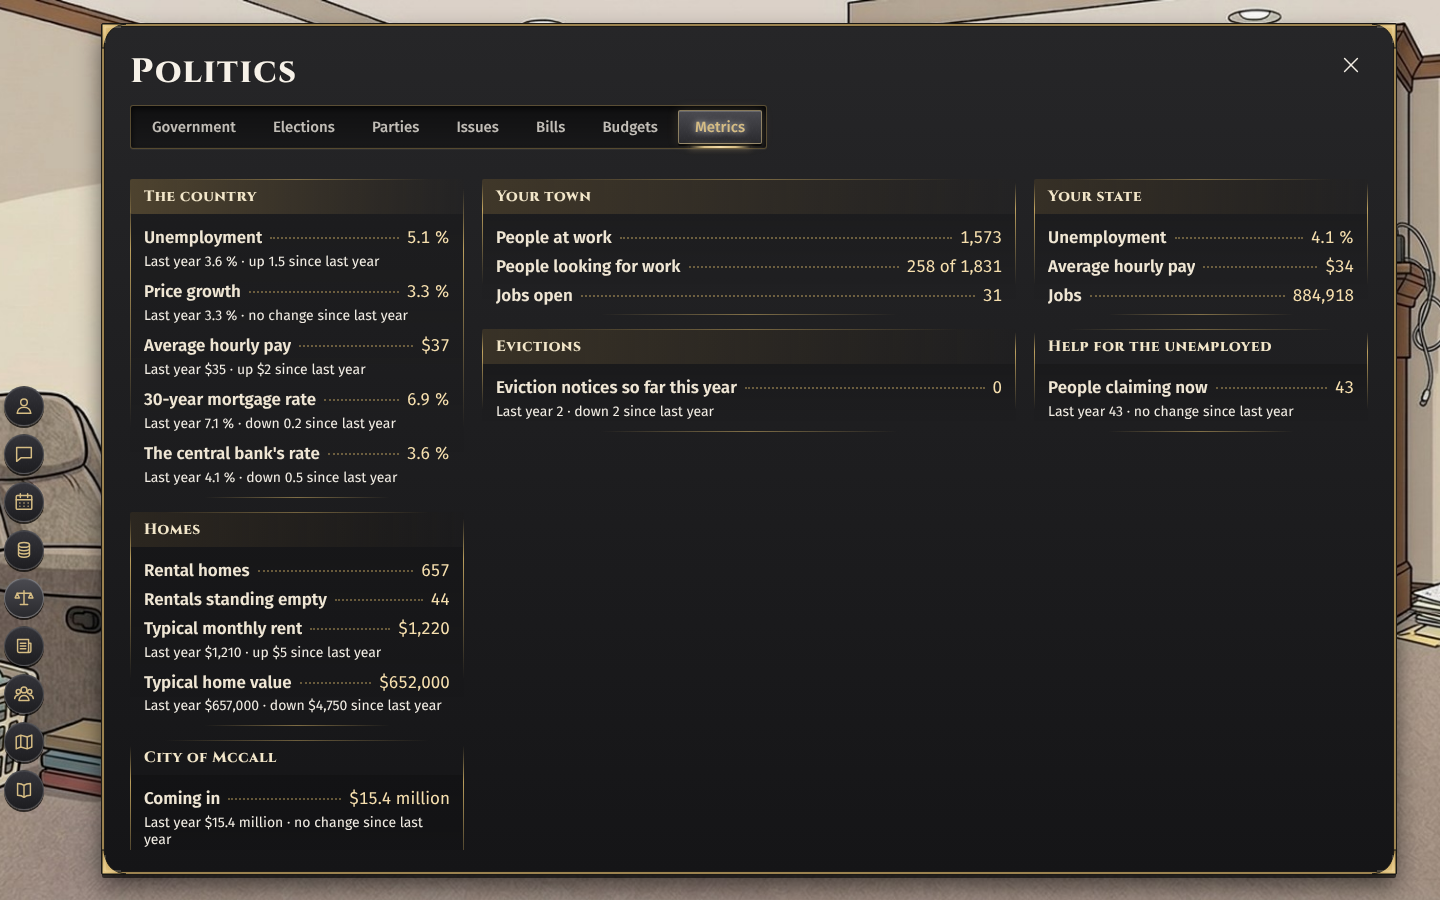
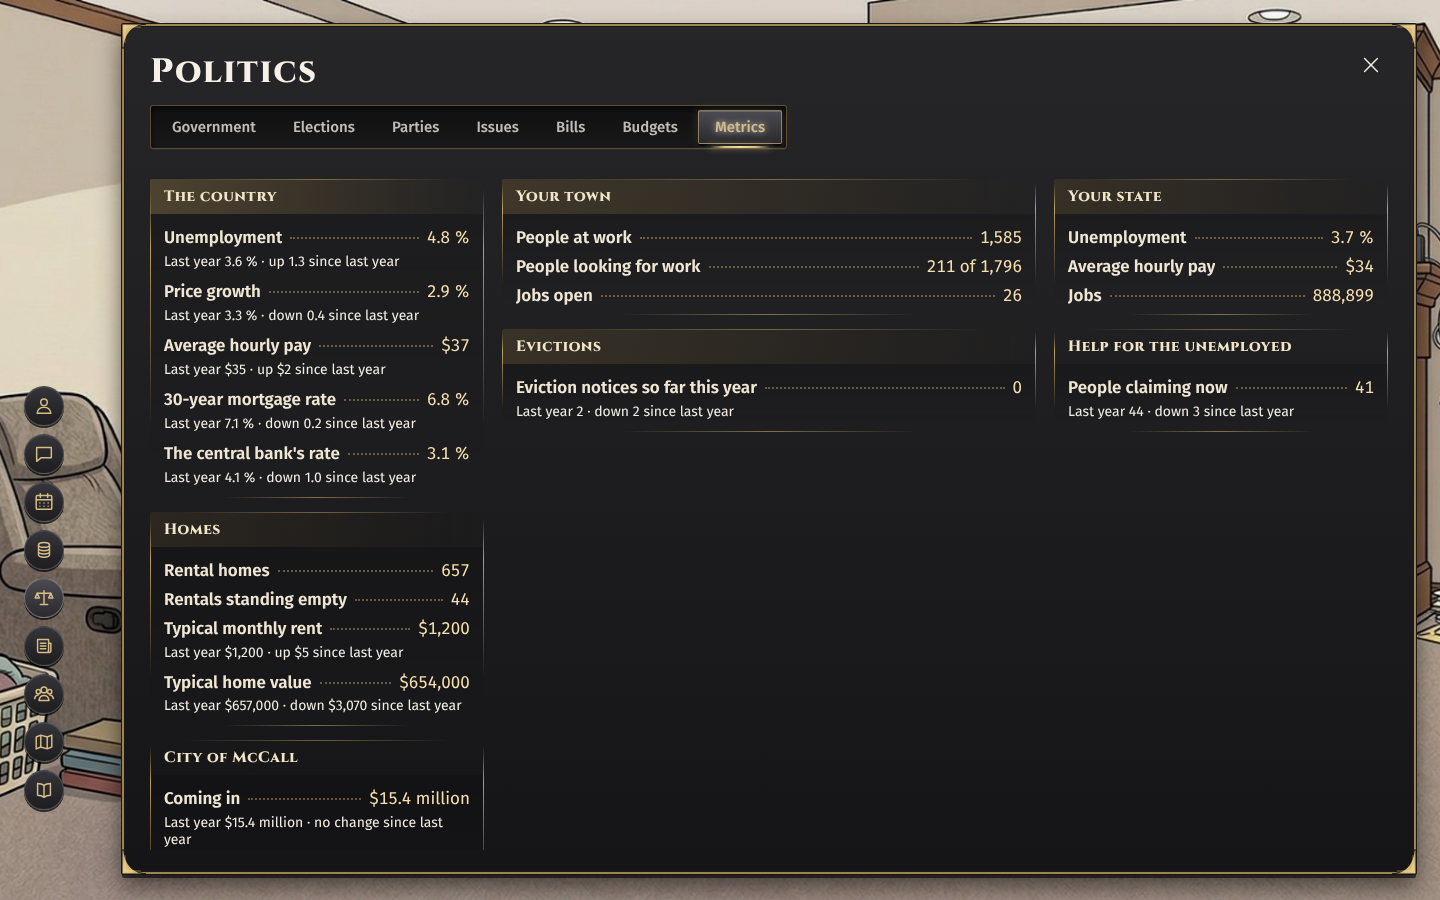
Metrics evidence: the McCall after picture, retaken with the government's proper name
Claude-Session: https://claude.ai/code/session_014CQ1ds36fBy1fPX2cjTh74

diff --git a/docs/seen/metrics-output-numbers-registry/lines.md b/docs/seen/metrics-output-numbers-registry/lines.md
@@ -26,7 +26,7 @@ Read and passed by Fable A on Nov 13, 2026 (issue #8928, comment 6841622105).
 - Eviction notices and people claiming now count both kinds of household, so the figures are larger than before. Before, only fully simulated households were counted.
 - The books' figures are the same on both sides in these three places.
 - The rows for jobs, rentals and the state show no last year on either side. They wait on later build orders.
-- A heading reads "City of Mccall". The name is written by the same function the Budgets tab already uses for its tabs on main, so the capital letter is not from this change. It is reported to Fable A, who owns that function.
+- The heading over the books is named by the same function the Budgets tab uses, so the two always say one name. An earlier after picture read "City of Mccall"; main has since fixed that name (#9000) and the picture here reads "City of McCall".
 
 ## Makena, Hawaii (seed `ea78293d-d1f2-4383-ba9e-b7a1cac0b8f8`)
 
@@ -342,63 +342,65 @@ People claiming now
 1
 ```
 
+The after pictures and lines for McCall were taken again on Nov 13 after main changed how a government is named (#9000) and that change was merged in here. The world also moved with main, so some of its figures differ from the before picture for that reason and not from this change (for example 211 of 1,796 looking for work, where the first after picture read 258 of 1,831).
+
 The lines as played, after (Wednesday, March 25, 2026, 8:30 PM):
 
 ```text
 The country
 Unemployment
-5.1 %
-Last year 3.6 % · up 1.5 since last year
+4.8 %
+Last year 3.6 % · up 1.3 since last year
 Price growth
-3.3 %
-Last year 3.3 % · no change since last year
+2.9 %
+Last year 3.3 % · down 0.4 since last year
 Average hourly pay
 $37
 Last year $35 · up $2 since last year
 30-year mortgage rate
-6.9 %
+6.8 %
 Last year 7.1 % · down 0.2 since last year
 The central bank's rate
-3.6 %
-Last year 4.1 % · down 0.5 since last year
+3.1 %
+Last year 4.1 % · down 1.0 since last year
 Homes
 Rental homes
 657
 Rentals standing empty
 44
 Typical monthly rent
-$1,220
-Last year $1,210 · up $5 since last year
+$1,200
+Last year $1,200 · up $5 since last year
 Typical home value
-$652,000
-Last year $657,000 · down $4,750 since last year
-City of Mccall
+$654,000
+Last year $657,000 · down $3,070 since last year
+City of McCall
 Coming in
 $15.4 million
 Last year $15.4 million · no change since last year
 Going out
 $13 million
-Last year $13.1 million · down $53,600 since last year
+Last year $13 million · down $66,100 since last year
 Your town
 People at work
-1,573
+1,585
 People looking for work
-258 of 1,831
+211 of 1,796
 Jobs open
-31
+26
 Evictions
 Eviction notices so far this year
 0
 Last year 2 · down 2 since last year
 Your state
 Unemployment
-4.1 %
+3.7 %
 Average hourly pay
 $34
 Jobs
-884,918
+888,899
 Help for the unemployed
 People claiming now
-43
-Last year 43 · no change since last year
+41
+Last year 44 · down 3 since last year
 ```
